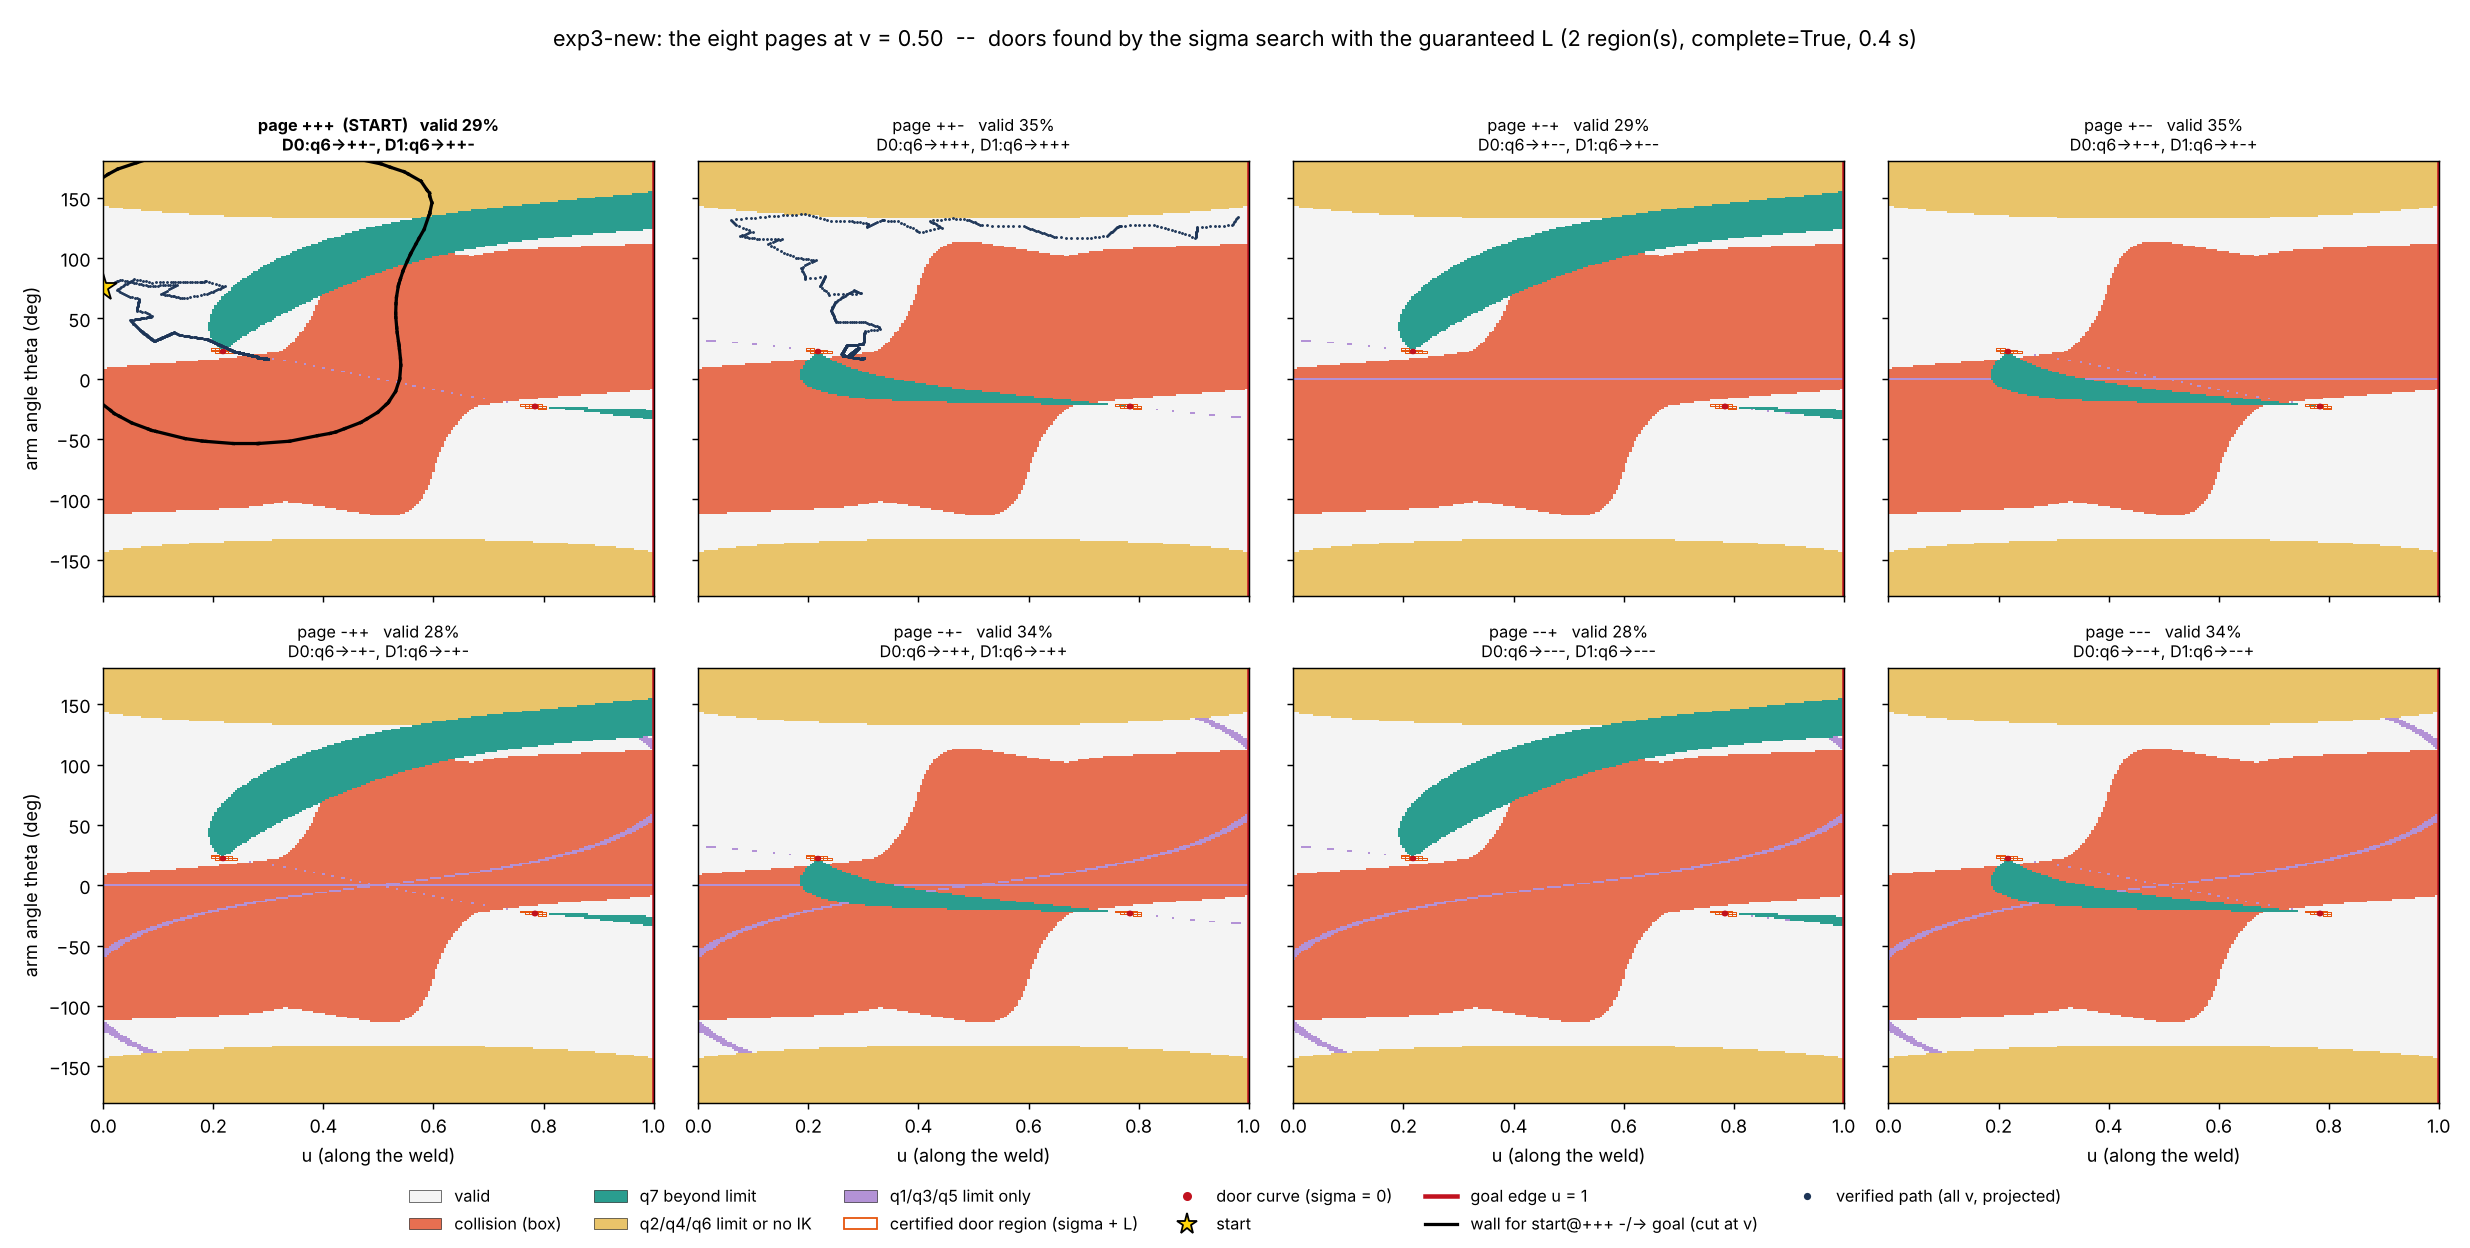
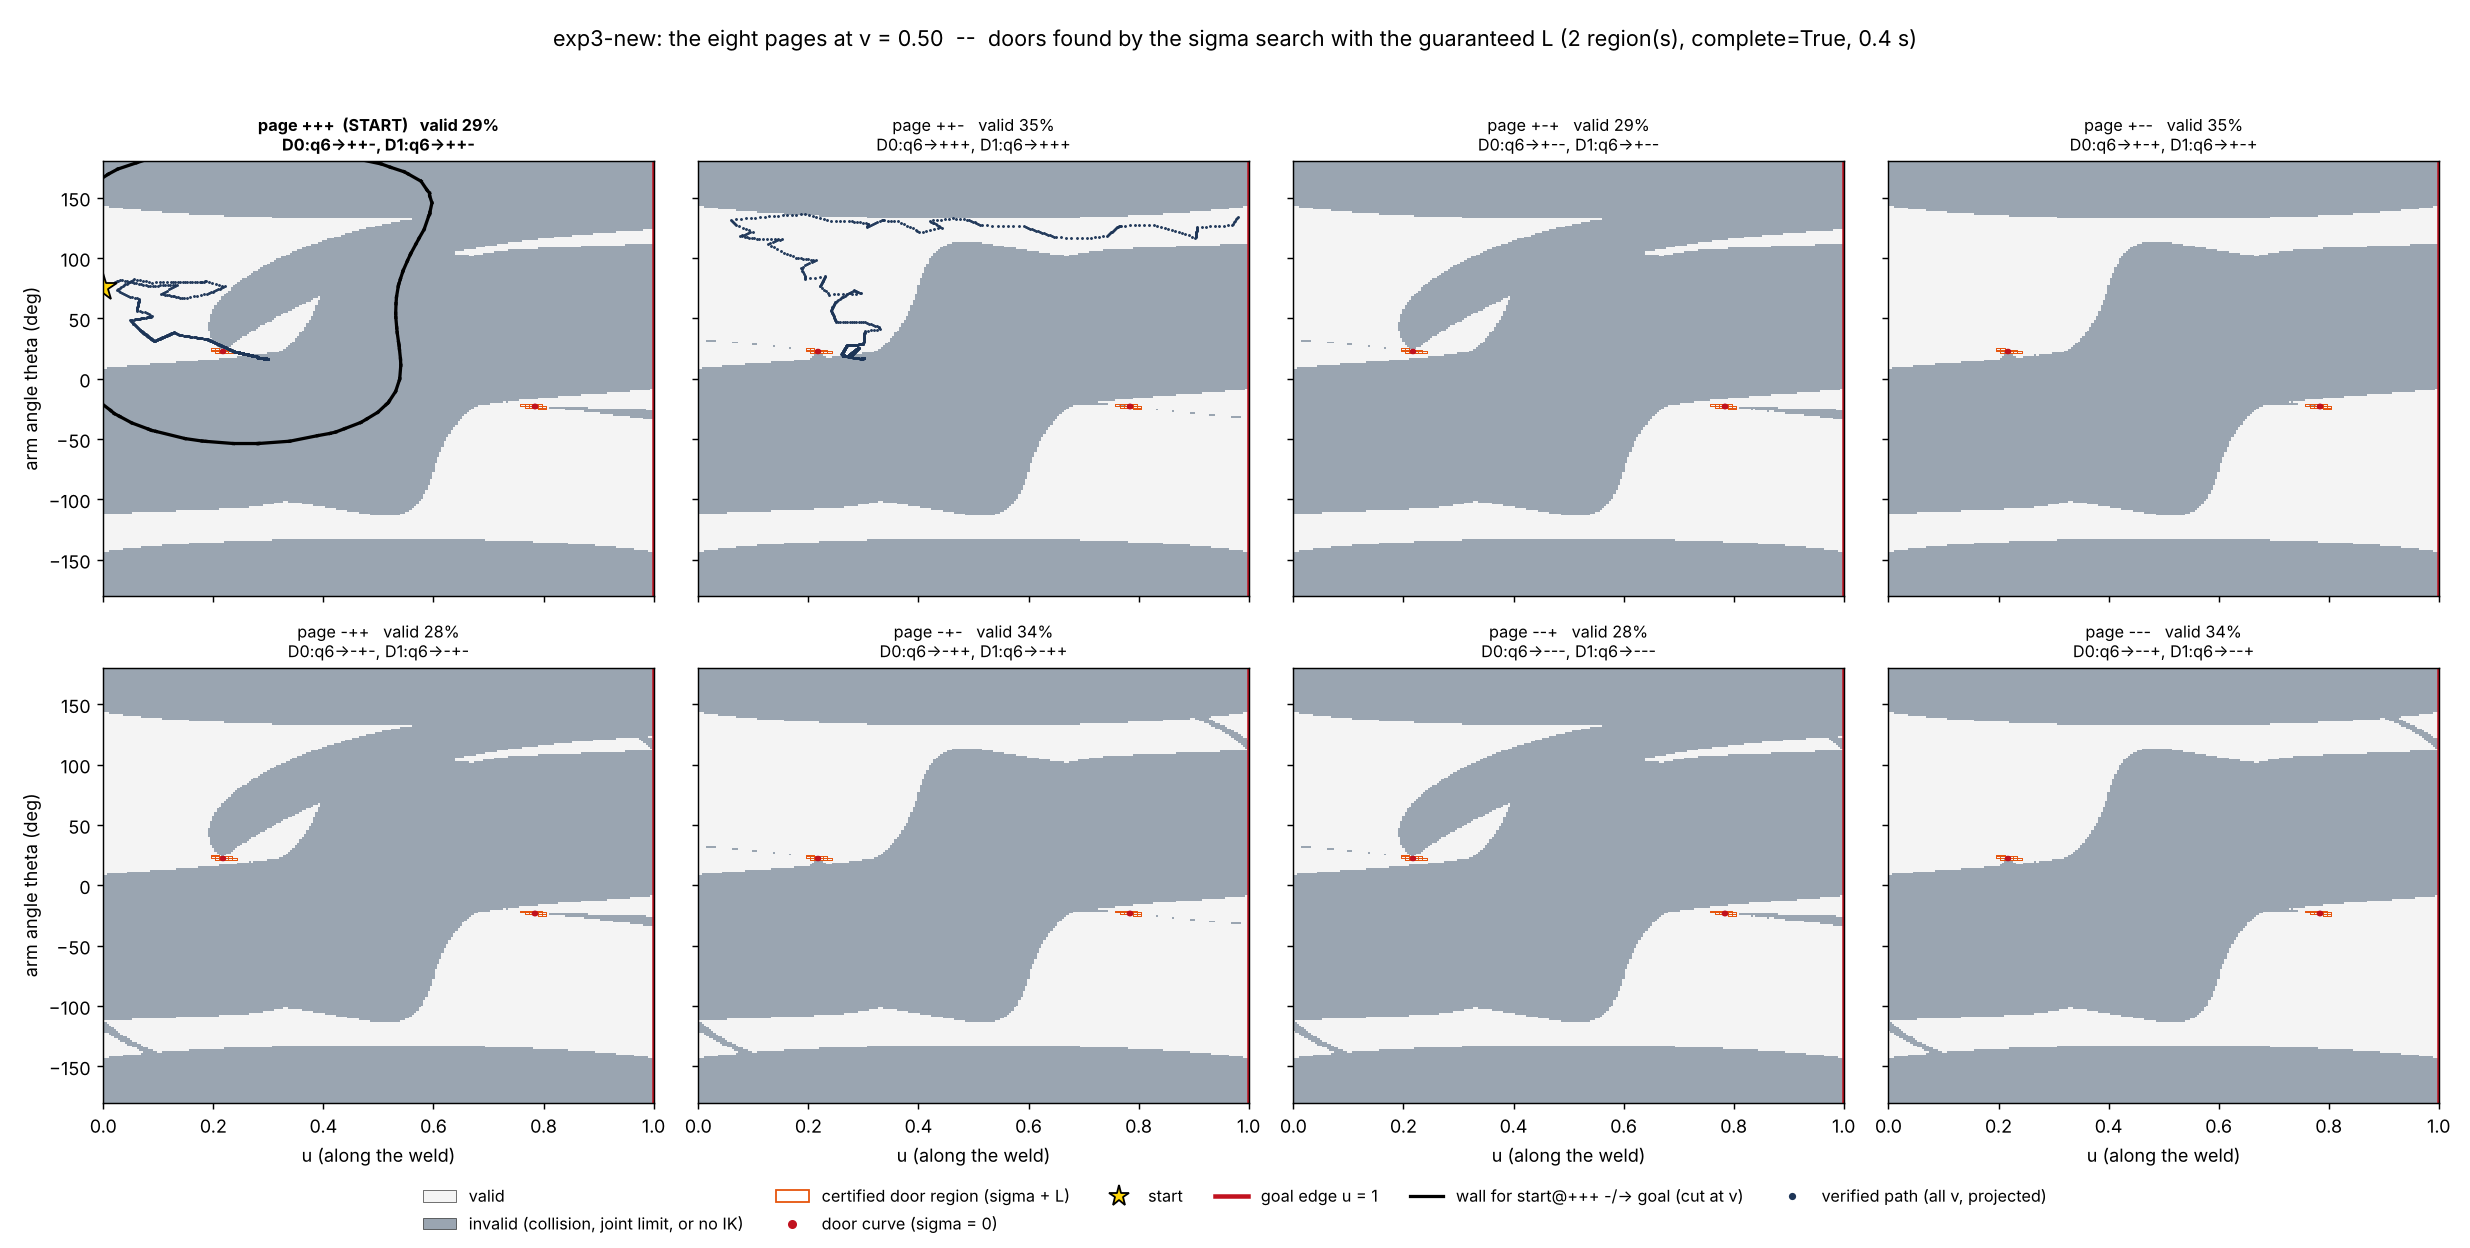
Eight-page maps: one colour for every invalid state
Collision, joint limits and no-IK are drawn as a single 'invalid' colour by
default; --split-invalid restores the per-reason colouring. Figures redrawn
for two-wall and exp3-new.

Claude-Session: https://claude.ai/code/session_01G8MAXewHc51no21vz9MN8m

diff --git a/scripts/fig_eight_pages.py b/scripts/fig_eight_pages.py
@@ -55,6 +55,9 @@ NAMES = ["valid", "collision (box)", "q7 beyond limit", "q2/q4/q6 limit or no IK
          "q1/q3/q5 limit only"]
 FLIP = {"q2": 0, "q4": 1, "q6": 2}
 WALL_COLORS = ["#000000", "#1d4ed8", "#be185d"]
+# --merge-invalid (default): one colour for every reason a state is invalid
+MERGED_COLORS = ["#f4f4f4", "#9aa5b1"]
+MERGED_NAMES = ["valid", "invalid (collision, joint limit, or no IK)"]
 
 
 def page_name(sg) -> str:
@@ -114,6 +117,8 @@ def main() -> None:
     ap.add_argument("--v0", type=float, default=None, help="slice (default: the start's v)")
     ap.add_argument("--grid", type=int, default=241)
     ap.add_argument("--out", default="docs/fig_eight_pages_exp3.png")
+    ap.add_argument("--split-invalid", action="store_true",
+                    help="colour each invalidity reason separately (default: one colour)")
     ap.add_argument("--geometry", default=None,
                     help="pickle from run_recursive.py --save-geometry: draws the walls and the path")
     args = ap.parse_args()
@@ -143,10 +148,13 @@ def main() -> None:
     nodes = list(dict.fromkeys(w["node"] for w in walls))
     U, T = np.meshgrid(np.linspace(0, 1, args.grid), np.linspace(-np.pi, np.pi, args.grid))
     fig, axs = plt.subplots(2, 4, figsize=(19, 9.6), sharex=True, sharey=True)
-    cmap = ListedColormap(COLORS)
+    colors, names = (COLORS, NAMES) if args.split_invalid else (MERGED_COLORS, MERGED_NAMES)
+    cmap = ListedColormap(colors)
     for ax, sg in zip(axs.ravel(), SIGN_BRANCHES):
         code = classify_slice(cfg, arm, scene, surf, sg, U, T, v0)
-        ax.pcolormesh(U, np.degrees(T), code, cmap=cmap, vmin=-0.5, vmax=4.5, shading="auto",
+        shown = code if args.split_invalid else (code > 0).astype(int)
+        ax.pcolormesh(U, np.degrees(T), shown, cmap=cmap, vmin=-0.5, vmax=len(colors) - 0.5,
+                      shading="auto",
                       rasterized=True)
         partners = []
         for i, d in enumerate(ds.doors):
@@ -188,7 +196,7 @@ def main() -> None:
         ax.set_xlabel("u (along the weld)")
     for ax in axs[:, 0]:
         ax.set_ylabel("arm angle theta (deg)")
-    handles = [Patch(fc=c, ec="k", lw=0.3, label=n) for c, n in zip(COLORS, NAMES)]
+    handles = [Patch(fc=c, ec="k", lw=0.3, label=n) for c, n in zip(colors, names)]
     handles += [Patch(fill=False, ec="#e6550d", label="certified door region (sigma + L)"),
                 plt.Line2D([], [], ls="", marker=".", c="#c1121f", ms=8, label="door curve (sigma = 0)"),
                 plt.Line2D([], [], ls="", marker="*", mfc="#ffd60a", mec="k", ms=12, label="start"),
